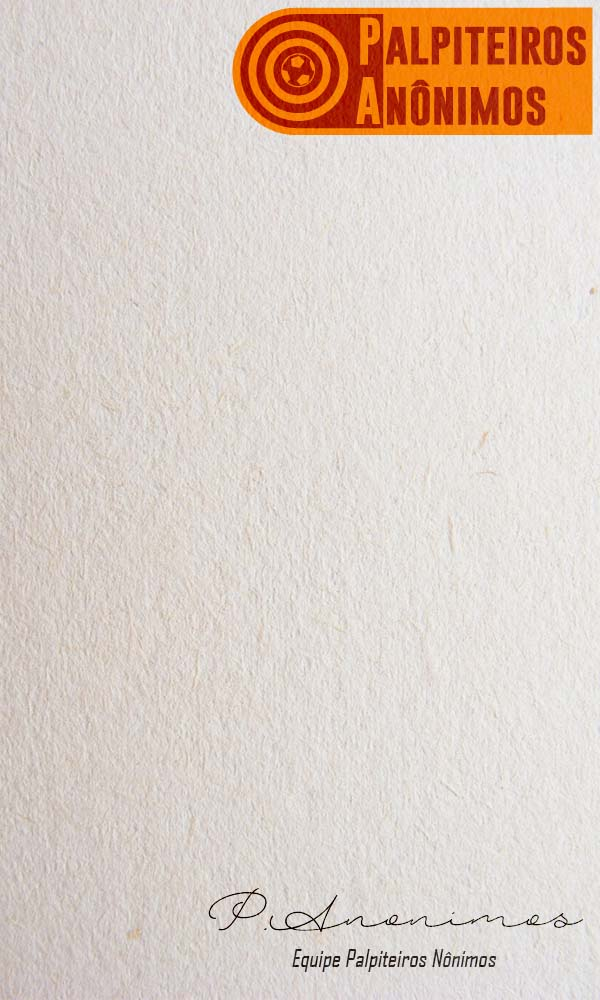
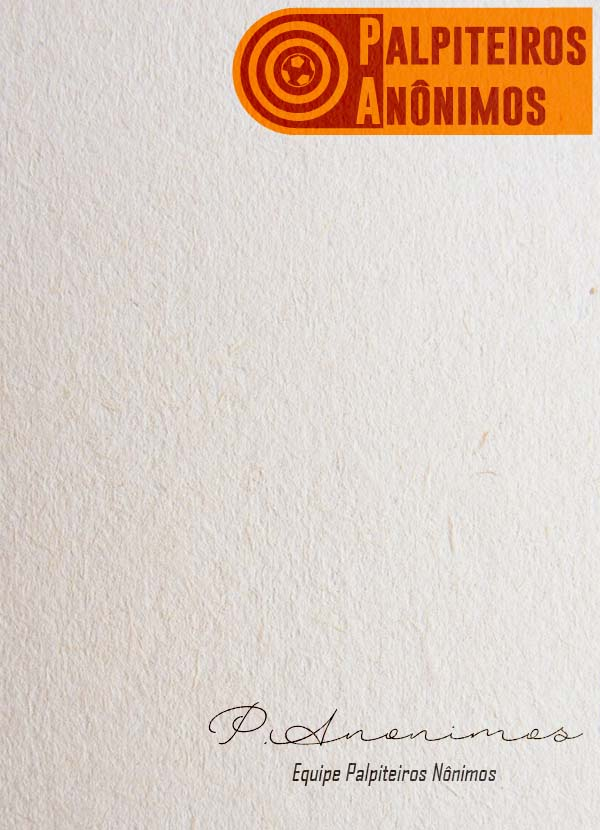
redes sociais, background email, google analytics

diff --git a/public/google_analytics_auto.js b/public/google_analytics_auto.js
@@ -1,5 +1,5 @@
 var _gaq = _gaq || [];
-_gaq.push(['_setAccount', 'UA-52506655-5']);
+_gaq.push(['_setAccount', 'UA-52506655-6']);
 _gaq.push(['_trackPageview']);
 
 (function() {

diff --git a/resources/views/site/home.blade.php b/resources/views/site/home.blade.php
@@ -138,9 +138,9 @@ Home
                     <li><a href="{{url('/cadastro')}}" title="Cadastrar">Cadastrar</a></li>
                     <li class="active"><a href="{{url('/entrar')}}" title="Entrar">Entrar</a></li>
                     <li><hr></li>
-                    <li><a href="{{get_link_twitter()}}" title="Twitter" target="_blank"><i class="fa fa-twitter"></i> palpiteiros</a></li>
-                    <li><a href="{{get_link_facebook()}}" title="Facebook" target="_blank"><i class="fa fa-facebook"></i> palpiteiros.anonimos</a></li>
-                    <li><a href="mailto:contato@palpiteirosanonimos.com.br?subject=Contato pelo Site" title="E-mail" target="_blank"><i class="fa fa-envelope"></i> contato@</a></li>
+                    <li><a href="{{get_link_twitter()}}" title="Twitter" target="_blank"><i class="fa fa-twitter"></i> @fut_bolao</a></li>
+                    <li><a href="{{get_link_facebook()}}" title="Facebook" target="_blank"><i class="fa fa-facebook"></i> facebook.com/futbolao</a></li>
+                    <li><a href="mailto:contato@palpiteirosanonimos.com.br?subject=Contato pelo Site" title="E-mail" target="_blank"><i class="fa fa-envelope"></i> contato@futbolao.com</a></li>
                 </ul>
             </div>
             <div class="col-xs-24 col-md-11">

diff --git a/resources/views/emails/novaSenha.blade.php b/resources/views/emails/novaSenha.blade.php
@@ -984,7 +984,7 @@ body,.wrapper,.emb-editor-canvas{background-color:#f5f7fa;}
             <tr>
                 <td class="border" style="padding: 0;vertical-align: top;font-size: 1px;line-height: 1px;background-color: #dddee1;width: 1px;"></td>
                 <td style="padding: 0;vertical-align: top;">
-                    <table class="one-col" style="border-collapse: collapse;border-spacing: 0;Margin-left: auto;Margin-right: auto;width: 600px;background-color: #ffffff;table-layout: fixed;background-position: 0px 0px;background-image: url({{url('img/email/bgemail.jpg')}});background-repeat: no-repeat;">
+                    <table class="one-col" style="border-collapse: collapse;border-spacing: 0;Margin-left: auto;Margin-right: auto;width: 600px;height: 1000px;background-color: #ffffff;table-layout: fixed;background-position: 0px 0px;background-image: url({{url('img/email/bgemail.jpg')}});background-repeat: no-repeat;">
                         <tbody>
                             <tr>
                                 <td class="column" style="padding: 0;vertical-align: top;text-align: left;">

diff --git a/resources/views/emails/novoCadastro.blade.php b/resources/views/emails/novoCadastro.blade.php
@@ -984,7 +984,7 @@ body,.wrapper,.emb-editor-canvas{background-color:#f5f7fa;}
             <tr>
                 <td class="border" style="padding: 0;vertical-align: top;font-size: 1px;line-height: 1px;background-color: #dddee1;width: 1px;"></td>
                 <td style="padding: 0;vertical-align: top;">
-                    <table class="one-col" style="border-collapse: collapse;border-spacing: 0;Margin-left: auto;Margin-right: auto;width: 600px;background-color: #ffffff;table-layout: fixed;background-position: 0px 0px;background-image: url({{url('img/email/bgemail.jpg')}});background-repeat: no-repeat;">
+                    <table class="one-col" style="border-collapse: collapse;border-spacing: 0;Margin-left: auto;Margin-right: auto;width: 600px;height: 1000px;background-color: #ffffff;table-layout: fixed;background-position: 0px 0px;background-image: url({{url('img/email/bgemail.jpg')}});background-repeat: no-repeat;">
                         <tbody>
                             <tr>
                                 <td class="column" style="padding: 0;vertical-align: top;text-align: left;">

diff --git a/resources/views/layouts/admin.blade.php b/resources/views/layouts/admin.blade.php
@@ -60,7 +60,7 @@
                         <ul class="social">
                             <li><a href="{{get_link_twitter()}}" title="Twitter" target="_blank"><i class="fa fa-twitter"></i></a></li>
                             <li><a href="{{get_link_facebook()}}" title="Facebook" target="_blank"><i class="fa fa-facebook"></i></a></li>
-                            <li><a href="mailto:contato@palpiteirosanonimos.com.br?subject=Contato pelo Site" title="E-mail" target="_blank"><i class="fa fa-envelope"></i></a></li>
+                            <li><a href="mailto:{{get_email_contato()}}?subject=Contato pelo Site" title="E-mail" target="_blank"><i class="fa fa-envelope"></i></a></li>
                         </ul>
                     </div>
                     <div class="col-xs-16 text-right">

diff --git a/resources/views/layouts/arena.blade.php b/resources/views/layouts/arena.blade.php
@@ -55,7 +55,7 @@
                         <ul class="social">
                             <li><a href="{{get_link_twitter()}}" title="Twitter" target="_blank"><i class="fa fa-twitter"></i></a></li>
                             <li><a href="{{get_link_facebook()}}" title="Facebook" target="_blank"><i class="fa fa-facebook"></i></a></li>
-                            <li><a href="mailto:contato@palpiteirosanonimos.com.br?subject=Contato pelo Site" title="E-mail" target="_blank"><i class="fa fa-envelope"></i></a></li>
+                            <li><a href="mailto:{{get_email_contato()}}?subject=Contato pelo Site" title="E-mail" target="_blank"><i class="fa fa-envelope"></i></a></li>
                         </ul>
                     </div>
                     <div class="col-xs-16 text-right">

diff --git a/resources/views/layouts/site.blade.php b/resources/views/layouts/site.blade.php
@@ -71,7 +71,7 @@
                         <ul class="social">
                             <li><a href="{{get_link_twitter()}}" title="Twitter" target="_blank"><i class="fa fa-twitter"></i></a></li>
                             <li><a href="{{get_link_facebook()}}" title="Facebook" target="_blank"><i class="fa fa-facebook"></i></a></li>
-                            <li><a href="mailto:contato@palpiteirosanonimos.com.br?subject=Contato pelo Site" title="E-mail" target="_blank"><i class="fa fa-envelope"></i></a></li>
+                            <li><a href="mailto:{{get_email_contato()}}?subject=Contato pelo Site" title="E-mail" target="_blank"><i class="fa fa-envelope"></i></a></li>
                         </ul>
                     </div>
                     <div class="col-xs-16 text-right">

diff --git a/app/Functions/dados_site.php b/app/Functions/dados_site.php
@@ -52,7 +52,7 @@ if (!function_exists('get_email_contato')) {
 if (!function_exists('get_link_twitter')) {
     function get_link_twitter()
     {
-        return "https://twitter.com/palpiteiros";
+        return "https://twitter.com/fut_bolao";
     }
 }
 
@@ -66,7 +66,7 @@ if (!function_exists('get_link_twitter')) {
 if (!function_exists('get_link_facebook')) {
     function get_link_facebook()
     {
-        return "https://www.facebook.com/palpiteiros.anonimos";
+        return "https://www.facebook.com/futbolao";
     }
 }
 
